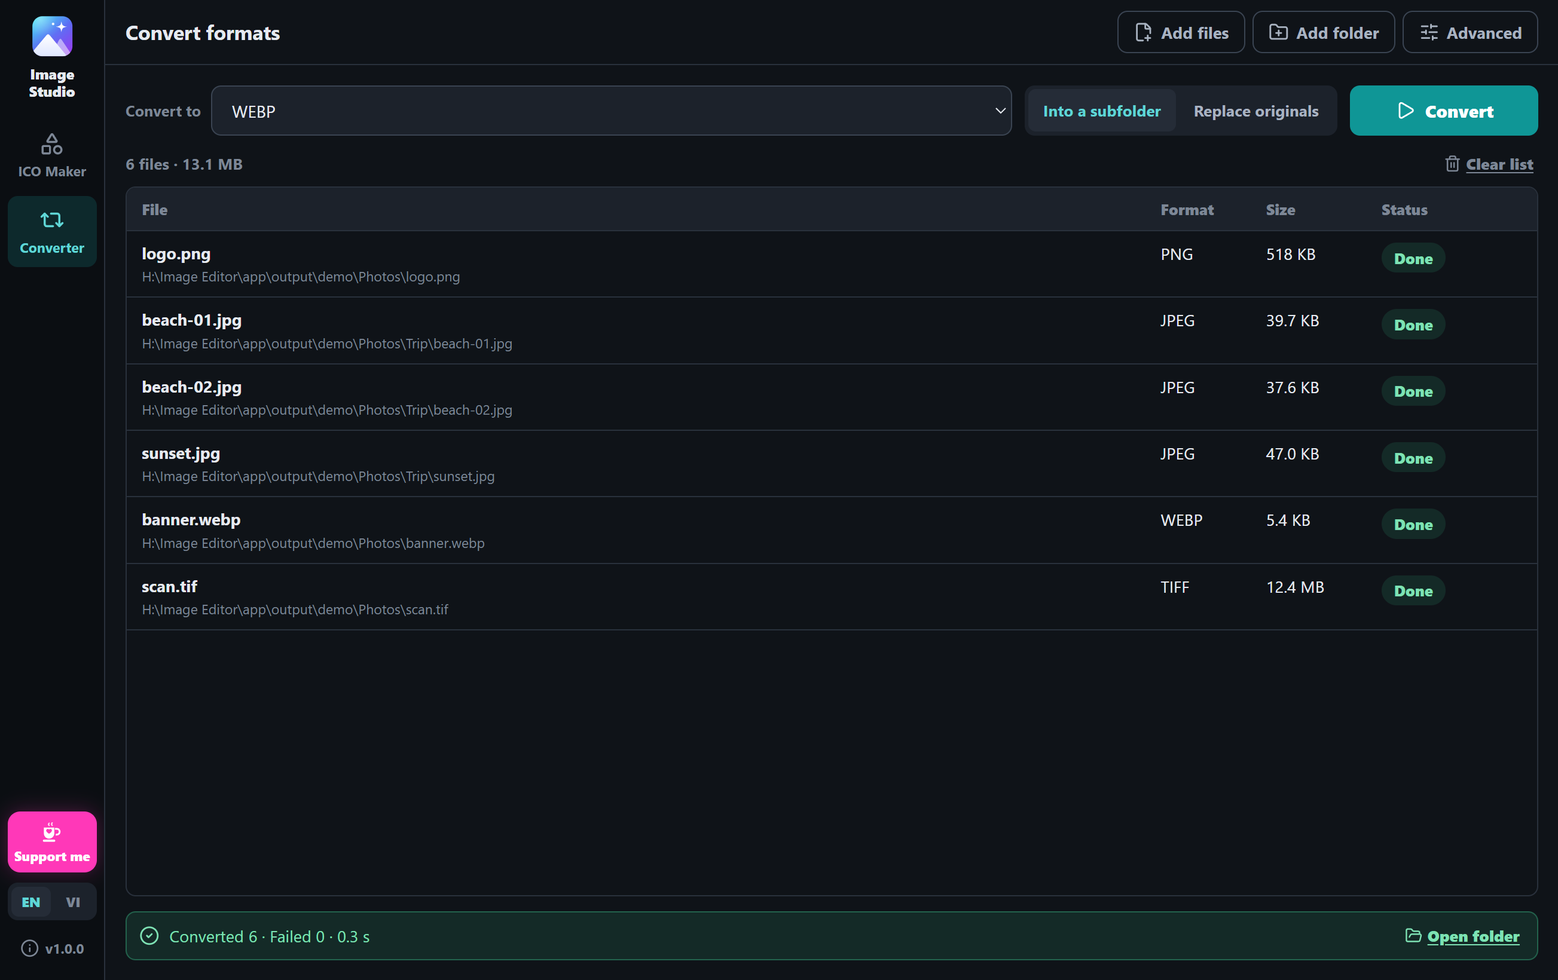
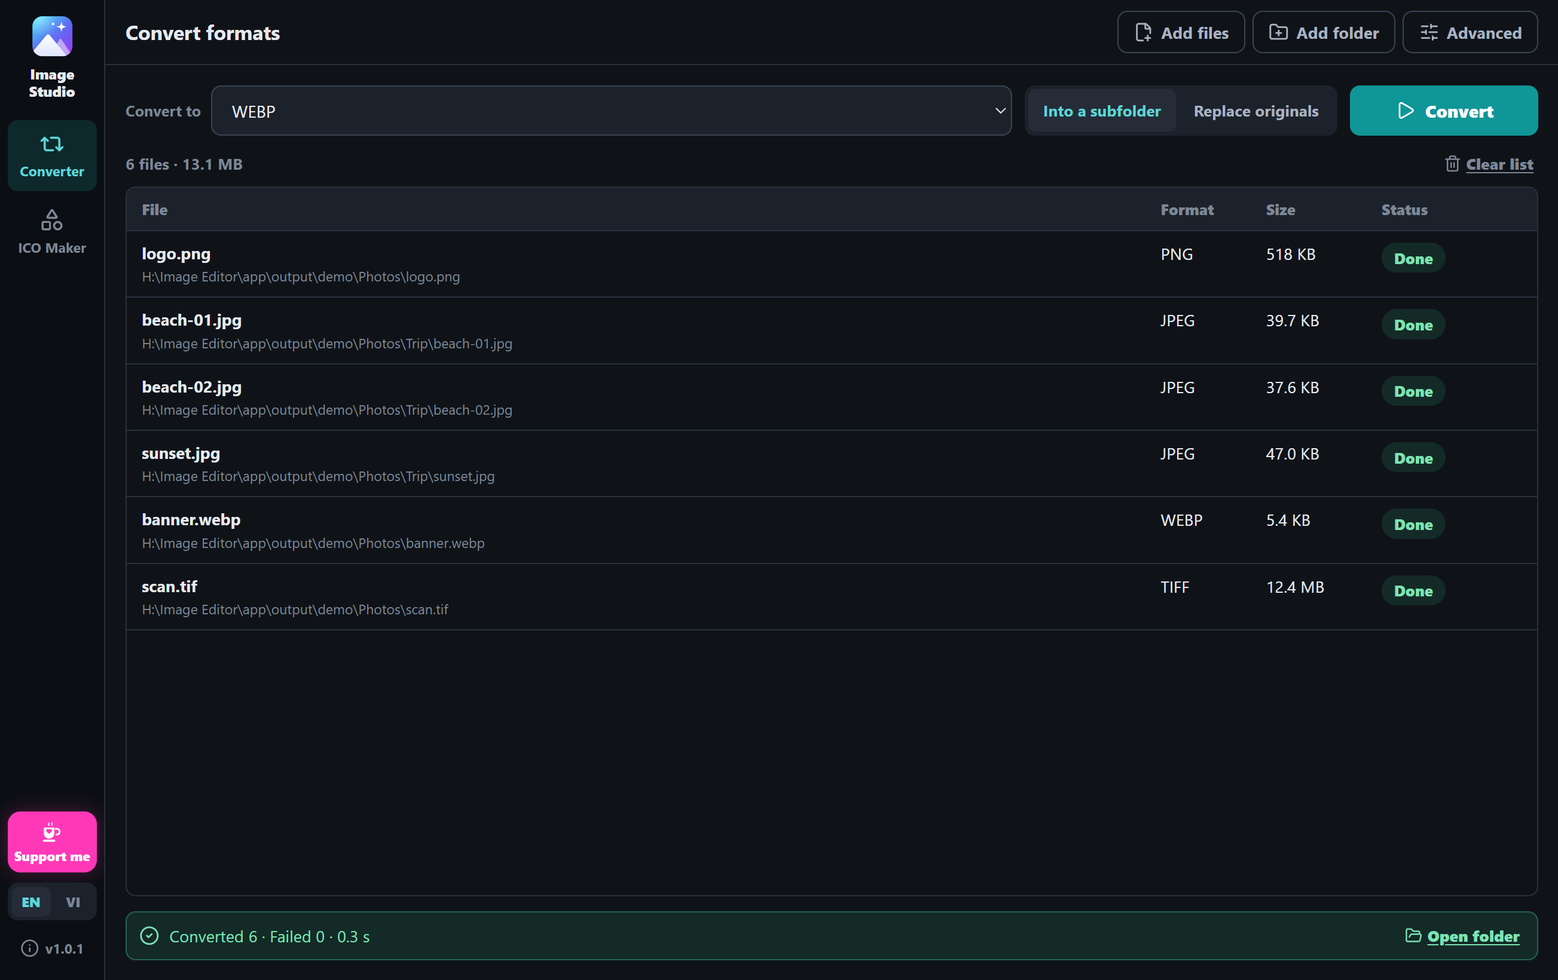
Make the Converter the main tool (1.0.1)
The Converter now comes first in the sidebar and the app opens on it.
README (EN/VI), About text, package description and the desktop
shortcut introduce conversion before the ICO maker, with a new HEIC to
JPG question. Releases take their notes from docs/release-notes and the
workflow fills in the build link and SHA-256 checksums.

Claude-Session: https://claude.ai/code/session_017oMzZX53Gv2aSY2cMQbrdU

Changed region(s): [[0.0, 0.1244, 0.0622, 0.2799]]

diff --git a/src/App.jsx b/src/App.jsx
@@ -8,18 +8,25 @@ import KofiIcon from './components/KofiIcon.jsx';
 import AboutPanel from './components/AboutPanel.jsx';
 import { LANGUAGES, useI18n } from './i18n.jsx';
 
+// Chuyển đổi là công cụ chính: đứng đầu thanh bên và mở mặc định.
 const TOOLS = [
-  { id: 'icon', label: 'tool.icon', icon: Shapes },
   { id: 'converter', label: 'tool.converter', icon: Repeat2 },
+  { id: 'icon', label: 'tool.icon', icon: Shapes },
 ];
+const DEFAULT_TOOL = TOOLS[0].id;
 const KOFI_URL = 'https://ko-fi.com/nyannyankuro';
+// Từ 1.0.1 app nhớ công cụ dưới khóa mới, nên ai đã dùng 1.0.0 cũng mở vào Chuyển đổi
+// một lần; khóa cũ được xóa.
+const TOOL_KEY = 'image-studio:active-tool';
+const OLD_TOOL_KEY = 'image-studio:tool';
 
 function readStoredTool() {
   try {
-    const value = window.localStorage.getItem('image-studio:tool');
-    return TOOLS.some((tool) => tool.id === value) ? value : 'icon';
+    window.localStorage.removeItem(OLD_TOOL_KEY);
+    const value = window.localStorage.getItem(TOOL_KEY);
+    return TOOLS.some((tool) => tool.id === value) ? value : DEFAULT_TOOL;
   } catch {
-    return 'icon';
+    return DEFAULT_TOOL;
   }
 }
 
@@ -40,7 +47,7 @@ export default function App() {
   function selectTool(id) {
     setActiveTool(id);
     try {
-      window.localStorage.setItem('image-studio:tool', id);
+      window.localStorage.setItem(TOOL_KEY, id);
     } catch {
       // Không lưu được lựa chọn thì vẫn chạy bình thường.
     }

diff --git a/README.md b/README.md
@@ -4,7 +4,7 @@
 
 # Image Studio
 
-**Turn any picture into a crisp, multi-size Windows icon, and convert whole folders of images and PDFs in one go.**<br />
+**Convert whole folders of images and PDFs to JPG, PNG, WEBP, AVIF and 100+ other formats in one go, and turn any picture into a crisp, multi-size Windows icon.**<br />
 A free, open-source desktop app for Windows. It works offline, and your files never leave your computer.
 
 **English** · [Tiếng Việt](docs/README.vi.md)
@@ -14,11 +14,19 @@ A free, open-source desktop app for Windows. It works offline, and your files ne
 [![License: GPL-3.0](https://img.shields.io/badge/license-GPL--3.0-a948e8)](LICENSE)
 [![Support me on Ko-fi](https://img.shields.io/badge/Ko--fi-Support%20me-ff5e5b?logo=kofi&logoColor=white)](https://ko-fi.com/nyannyankuro)
 
-<img src="docs/screenshots/ico-maker-en.png" alt="Image Studio ICO Maker" width="900" />
+<img src="docs/screenshots/converter-en.png" alt="Image Studio Converter" width="900" />
 
 </div>
 
 ## ✨ What it does
+
+**Converter**
+
+- 📂 **Whole folders at once.** Drop in files or folders (subfolders included) and convert everything to JPG, PNG, WEBP, AVIF, TIFF, GIF, ICO, PDF or 100+ other formats.
+- 📱 **iPhone photos too.** HEIC/HEIF, WEBP, AVIF, RAW camera files, PSD, SVG and more can be read and turned into everyday JPG or PNG.
+- 📄 **PDF to images.** Every page becomes its own image, at the resolution you pick (72 to 600 DPI).
+- 🛡 **Your originals stay safe.** Results go into a subfolder by default. If you choose to replace the originals, a file is only removed after its new version has been written.
+- ⚡ **Fast.** Several files are converted side by side, tuned to your CPU and memory, and you can stop at any moment.
 
 **ICO Maker**
 
@@ -27,17 +35,10 @@ A free, open-source desktop app for Windows. It works offline, and your files ne
 - ✂ **Frame it your way.** Drag to move, scroll to zoom, and round the corners anywhere from square to a full circle. Add padding, a background color or a border if you like.
 - 🧩 **Every ICO flavor.** BMP 32-bit with transparency, PNG, BMP 24-bit, 8-bit (256 colors) and 4-bit (16 colors), with presets for Windows apps and website favicons, plus any custom size up to 1024 px.
 
-**Converter**
-
-- 📂 **Whole folders at once.** Drop in files or folders (subfolders included) and convert everything to PNG, JPEG, WEBP, AVIF, TIFF, ICO, PDF or 100+ other formats.
-- 📄 **PDF to images.** Every page becomes its own image, at the resolution you pick (72 to 600 DPI).
-- 🛡 **Your originals stay safe.** Results go into a subfolder by default. If you choose to replace the originals, a file is only removed after its new version has been written.
-- ⚡ **Fast.** Several files are converted side by side, tuned to your CPU and memory, and you can stop at any moment.
-
 And: English and Vietnamese, a calm dark theme, a layout that fits small windows, no ads, no account and no tracking.
 
 <div align="center">
-<img src="docs/screenshots/converter-en.png" alt="Image Studio Converter" width="900" />
+<img src="docs/screenshots/ico-maker-en.png" alt="Image Studio ICO Maker" width="900" />
 </div>
 
 ## 📥 Download
@@ -63,6 +64,26 @@ Want to check for yourself?
 - Please download Image Studio only from this GitHub page. Copies on other sites may have been changed.
 
 ## 📖 How to use
+
+### Convert images
+
+1. Open **Converter** and drop files or folders onto the window, or click **Add files** / **Add folder**.
+2. Pick a format in **Convert to**.
+3. Choose where the results go:
+   - **Into a subfolder** (default): a `converted-images` folder next to the originals. The originals aren't touched.
+   - **Replace originals**: the results are saved next to the originals, and each original is deleted once its new version is written.
+4. Click **Convert**. You can click **Stop** at any time; files that were in progress are cleaned up, so nothing is left half-written. When it's done, **Open folder** shows the results.
+
+In **Advanced**:
+
+- **Quality**: *Lossless* keeps every pixel when the format allows it (PNG, TIFF, WEBP, AVIF, JXL), with larger files. *Max quality* uses the highest quality setting with normal compression, with smaller files. JPEG always uses its best quality.
+- **PDF**: the resolution for PDF pages: 72, 150, 300 or 600 DPI. 300 DPI suits most documents.
+- **Subfolder**: the name of the results folder.
+- **Folder filter**: when you add a folder, only take files of one format (for example only HEIC photos). Files you add one by one are always included.
+
+#### PDF files
+
+To read PDFs, ImageMagick needs **Ghostscript**, a free program that can't be bundled with this app for license reasons. If it's missing, Image Studio tells you and links to the [Ghostscript download page](https://ghostscript.com/releases/gsdnld.html). Install the 64-bit version, then try again. Each page becomes its own image; with *Replace originals*, the pages go into a folder named after the PDF.
 
 ### Make an icon in three steps
 
@@ -103,27 +124,10 @@ Click **Advanced** to open the side panel:
 - **Sizes**: presets (*Full set*, *Windows*, *Favicon*). Click a size to turn it on or off, or type your own.
 - **Also save a PNG of each size**: writes a folder of PNG files next to the .ico.
 
-### Convert images
-
-1. Open **Converter** and drop files or folders onto the window, or click **Add files** / **Add folder**.
-2. Pick a format in **Convert to**.
-3. Choose where the results go:
-   - **Into a subfolder** (default): a `converted-images` folder next to the originals. The originals aren't touched.
-   - **Replace originals**: the results are saved next to the originals, and each original is deleted once its new version is written.
-4. Click **Convert**. You can click **Stop** at any time; files that were in progress are cleaned up, so nothing is left half-written. When it's done, **Open folder** shows the results.
-
-In **Advanced**:
-
-- **Quality**: *Lossless* keeps every pixel when the format allows it (PNG, TIFF, WEBP, AVIF, JXL), with larger files. *Max quality* uses the highest quality setting with normal compression, with smaller files. JPEG always uses its best quality.
-- **PDF**: the resolution for PDF pages: 72, 150, 300 or 600 DPI. 300 DPI suits most documents.
-- **Subfolder**: the name of the results folder.
-- **Folder filter**: when you add a folder, only take files of one format (for example only HEIC photos). Files you add one by one are always included.
-
-#### PDF files
-
-To read PDFs, ImageMagick needs **Ghostscript**, a free program that can't be bundled with this app for license reasons. If it's missing, Image Studio tells you and links to the [Ghostscript download page](https://ghostscript.com/releases/gsdnld.html). Install the 64-bit version, then try again. Each page becomes its own image; with *Replace originals*, the pages go into a folder named after the PDF.
-
 ## Questions
+
+**Can it convert iPhone photos (HEIC) to JPG?**
+Yes. Drop the photos or their folder into **Converter**, pick **JPEG** in **Convert to** and click **Convert**.
 
 **Does it need the internet?**
 No. Everything happens on your computer. The only online feature is **Check for updates**, and it runs only when you click it.
@@ -173,7 +177,7 @@ npm run dist           # build the installer and portable zip into release/
 
 Project layout: `electron/` (main process: ImageMagick, conversion queue, clipboard, update check), `src/` (React interface; `src/lib/` holds the icon resampling, ICO encoder and color quantizer), `locales/` (English and Vietnamese text), `tests/`, `scripts/` (ImageMagick download, desktop shortcut).
 
-To release a new version, update `version` in `package.json` and `CHANGELOG.md`, then push a tag such as `v1.0.1`. GitHub Actions runs the tests, builds the installer and the portable zip, and attaches them to a GitHub Release.
+To release a new version, update `version` in `package.json` and `CHANGELOG.md`, write the release notes in `docs/release-notes/vX.Y.Z.md`, then push a tag such as `v1.0.2` or click **Run workflow** on the `release` workflow in the Actions tab. GitHub Actions runs the tests, builds the installer and the portable zip, and publishes them as a GitHub Release with those notes and the SHA-256 checksums.
 
 To add a language, copy `locales/en.json`, translate the values, and register it in `src/i18n.jsx` and `electron/i18n.cjs`.
 

diff --git a/docs/README.vi.md b/docs/README.vi.md
@@ -4,7 +4,7 @@
 
 # Image Studio
 
-**Biến bất kỳ bức ảnh nào thành icon Windows sắc nét đủ mọi kích thước, và chuyển đổi định dạng cả thư mục ảnh lẫn PDF trong một lần.**<br />
+**Chuyển đổi cả thư mục ảnh lẫn PDF sang JPG, PNG, WEBP, AVIF và hơn 100 định dạng khác trong một lần, và biến bất kỳ bức ảnh nào thành icon Windows sắc nét đủ mọi kích thước.**<br />
 Ứng dụng miễn phí, mã nguồn mở cho Windows. Chạy không cần mạng, ảnh của bạn không bao giờ rời khỏi máy.
 
 [English](../README.md) · **Tiếng Việt**
@@ -14,11 +14,19 @@
 [![Giấy phép: GPL-3.0](https://img.shields.io/badge/license-GPL--3.0-a948e8)](../LICENSE)
 [![Ủng hộ trên Ko-fi](https://img.shields.io/badge/Ko--fi-%E1%BB%A6ng%20h%E1%BB%99%20m%C3%ACnh-ff5e5b?logo=kofi&logoColor=white)](https://ko-fi.com/nyannyankuro)
 
-<img src="screenshots/ico-maker-vi.png" alt="Image Studio: Tạo ICO" width="900" />
+<img src="screenshots/converter-vi.png" alt="Image Studio: Chuyển đổi định dạng" width="900" />
 
 </div>
 
 ## ✨ Làm được gì
+
+**Chuyển đổi định dạng**
+
+- 📂 **Cả thư mục một lần.** Kéo-thả tệp hoặc thư mục (gồm cả thư mục con) rồi chuyển hết sang JPG, PNG, WEBP, AVIF, TIFF, GIF, ICO, PDF hoặc hơn 100 định dạng khác.
+- 📱 **Cả ảnh iPhone.** Đọc được HEIC/HEIF, WEBP, AVIF, ảnh RAW máy ảnh, PSD, SVG và nhiều loại khác, rồi đổi sang JPG hay PNG quen thuộc.
+- 📄 **PDF thành ảnh.** Mỗi trang thành một ảnh riêng, ở độ phân giải bạn chọn (72 đến 600 DPI).
+- 🛡 **Tệp gốc luôn an toàn.** Mặc định kết quả được lưu vào thư mục con. Nếu chọn thay tệp gốc, mỗi tệp chỉ bị xóa sau khi bản mới đã ghi xong.
+- ⚡ **Nhanh.** Nhiều tệp được chuyển cùng lúc, tự điều chỉnh theo CPU và RAM, và bạn có thể dừng bất cứ lúc nào.
 
 **Tạo ICO**
 
@@ -27,17 +35,10 @@
 - ✂ **Cắt khung theo ý bạn.** Kéo để dời ảnh, cuộn chuột để phóng to, bo góc từ vuông đến tròn hẳn. Thêm lề, màu nền hoặc viền nếu muốn.
 - 🧩 **Đủ kiểu ICO.** BMP 32-bit có nền trong suốt, PNG, BMP 24-bit, 8-bit (256 màu) và 4-bit (16 màu), có sẵn bộ size cho app Windows và favicon web, thêm size tùy ý đến 1024 px.
 
-**Chuyển đổi định dạng**
-
-- 📂 **Cả thư mục một lần.** Kéo-thả tệp hoặc thư mục (gồm cả thư mục con) rồi chuyển hết sang PNG, JPEG, WEBP, AVIF, TIFF, ICO, PDF hoặc hơn 100 định dạng khác.
-- 📄 **PDF thành ảnh.** Mỗi trang thành một ảnh riêng, ở độ phân giải bạn chọn (72 đến 600 DPI).
-- 🛡 **Tệp gốc luôn an toàn.** Mặc định kết quả được lưu vào thư mục con. Nếu chọn thay tệp gốc, mỗi tệp chỉ bị xóa sau khi bản mới đã ghi xong.
-- ⚡ **Nhanh.** Nhiều tệp được chuyển cùng lúc, tự điều chỉnh theo CPU và RAM, và bạn có thể dừng bất cứ lúc nào.
-
 Ngoài ra: giao diện tiếng Việt và tiếng Anh, nền tối dịu mắt, vừa cả khi cửa sổ nhỏ, không quảng cáo, không cần tài khoản, không theo dõi.
 
 <div align="center">
-<img src="screenshots/converter-vi.png" alt="Image Studio: Chuyển đổi định dạng" width="900" />
+<img src="screenshots/ico-maker-vi.png" alt="Image Studio: Tạo ICO" width="900" />
 </div>
 
 ## 📥 Tải về
@@ -63,6 +64,26 @@ Muốn tự kiểm tra?
 - Hãy chỉ tải Image Studio từ trang GitHub này. Bản ở trang khác có thể đã bị sửa.
 
 ## 📖 Hướng dẫn sử dụng
+
+### Chuyển đổi định dạng ảnh
+
+1. Mở mục **Chuyển đổi** rồi kéo-thả tệp hoặc thư mục vào cửa sổ, hoặc bấm **Thêm tệp** / **Thêm thư mục**.
+2. Chọn định dạng ở ô **Chuyển sang**.
+3. Chọn cách lưu kết quả:
+   - **Vào thư mục con** (mặc định): thư mục `converted-images` nằm cạnh tệp gốc. Tệp gốc giữ nguyên.
+   - **Thay tệp gốc**: kết quả lưu cạnh tệp gốc, và mỗi tệp gốc bị xóa khi bản mới của nó đã ghi xong.
+4. Bấm **Chuyển đổi**. Bấm **Dừng** lúc nào cũng được; tệp đang làm dở sẽ được dọn đi, không để lại tệp hỏng. Xong thì bấm **Mở thư mục** để xem kết quả.
+
+Trong **Nâng cao**:
+
+- **Chất lượng**: *Không mất* giữ nguyên từng pixel khi định dạng cho phép (PNG, TIFF, WEBP, AVIF, JXL), tệp lớn hơn. *Cao nhất* dùng mức chất lượng cao nhất với nén thường, tệp nhỏ hơn. JPEG luôn ở chất lượng tốt nhất.
+- **PDF**: độ phân giải cho trang PDF: 72, 150, 300 hoặc 600 DPI. 300 DPI hợp với hầu hết tài liệu.
+- **Thư mục con**: tên thư mục chứa kết quả.
+- **Lọc thư mục**: khi thêm thư mục, chỉ lấy tệp của một định dạng (ví dụ chỉ ảnh HEIC). Tệp thêm từng cái thì luôn được lấy.
+
+#### Tệp PDF
+
+Để đọc PDF, ImageMagick cần **Ghostscript**, một chương trình miễn phí nhưng không được kèm vào app vì lý do giấy phép. Nếu máy chưa có, Image Studio sẽ báo và đưa link tới [trang tải Ghostscript](https://ghostscript.com/releases/gsdnld.html). Cài bản 64-bit rồi thử lại. Mỗi trang thành một ảnh; ở chế độ *Thay tệp gốc*, các trang nằm trong thư mục mang tên tệp PDF.
 
 ### Tạo icon trong ba bước
 
@@ -103,27 +124,10 @@ Bấm **Nâng cao** để mở bảng bên phải:
 - **Kích thước**: bộ size có sẵn (*Đầy đủ*, *Windows*, *Favicon*). Bấm vào size để bật hoặc tắt, hoặc gõ size riêng.
 - **Kèm thư mục PNG từng size**: lưu thêm một thư mục ảnh PNG cạnh tệp .ico.
 
-### Chuyển đổi định dạng ảnh
-
-1. Mở mục **Chuyển đổi** rồi kéo-thả tệp hoặc thư mục vào cửa sổ, hoặc bấm **Thêm tệp** / **Thêm thư mục**.
-2. Chọn định dạng ở ô **Chuyển sang**.
-3. Chọn cách lưu kết quả:
-   - **Vào thư mục con** (mặc định): thư mục `converted-images` nằm cạnh tệp gốc. Tệp gốc giữ nguyên.
-   - **Thay tệp gốc**: kết quả lưu cạnh tệp gốc, và mỗi tệp gốc bị xóa khi bản mới của nó đã ghi xong.
-4. Bấm **Chuyển đổi**. Bấm **Dừng** lúc nào cũng được; tệp đang làm dở sẽ được dọn đi, không để lại tệp hỏng. Xong thì bấm **Mở thư mục** để xem kết quả.
-
-Trong **Nâng cao**:
-
-- **Chất lượng**: *Không mất* giữ nguyên từng pixel khi định dạng cho phép (PNG, TIFF, WEBP, AVIF, JXL), tệp lớn hơn. *Cao nhất* dùng mức chất lượng cao nhất với nén thường, tệp nhỏ hơn. JPEG luôn ở chất lượng tốt nhất.
-- **PDF**: độ phân giải cho trang PDF: 72, 150, 300 hoặc 600 DPI. 300 DPI hợp với hầu hết tài liệu.
-- **Thư mục con**: tên thư mục chứa kết quả.
-- **Lọc thư mục**: khi thêm thư mục, chỉ lấy tệp của một định dạng (ví dụ chỉ ảnh HEIC). Tệp thêm từng cái thì luôn được lấy.
-
-#### Tệp PDF
-
-Để đọc PDF, ImageMagick cần **Ghostscript**, một chương trình miễn phí nhưng không được kèm vào app vì lý do giấy phép. Nếu máy chưa có, Image Studio sẽ báo và đưa link tới [trang tải Ghostscript](https://ghostscript.com/releases/gsdnld.html). Cài bản 64-bit rồi thử lại. Mỗi trang thành một ảnh; ở chế độ *Thay tệp gốc*, các trang nằm trong thư mục mang tên tệp PDF.
-
 ## Câu hỏi thường gặp
+
+**Đổi ảnh iPhone (HEIC) sang JPG được không?**
+Được. Kéo ảnh hoặc cả thư mục ảnh vào mục **Chuyển đổi**, chọn **JPEG** ở ô **Chuyển sang** rồi bấm **Chuyển đổi**.
 
 **App có cần mạng không?**
 Không. Mọi thứ chạy trên máy bạn. Tính năng duy nhất dùng mạng là **Kiểm tra cập nhật**, và chỉ chạy khi bạn bấm.

diff --git a/docs/release-notes/v1.0.1.md b/docs/release-notes/v1.0.1.md
@@ -1,0 +1,29 @@
+### Image Studio: a free image converter and ICO maker for Windows
+- **Converter**: drop in files or whole folders and convert them to JPG, PNG, WEBP, AVIF, TIFF, GIF, ICO, PDF or 100+ other formats in one go. iPhone photos (HEIC), RAW camera files, PSD and SVG can be read too, and every PDF page can become its own image. Results go into a subfolder by default, so your originals stay safe.
+- **ICO Maker**: paste a picture with **Ctrl+V** (or drag it in), frame it, round the corners, and export a crisp, multi-size `.ico` for Windows apps or websites.
+
+English and Vietnamese, works offline, no ads, no account, no tracking. ImageMagick is built in; only PDF files need the free [Ghostscript](https://ghostscript.com/releases/gsdnld.html).
+
+### What's new in 1.0.1
+- The **Converter** is now the main tool: it comes first and the app opens on it.
+
+### Which file should I download?
+- **`ImageStudio-Setup-1.0.1.exe`**: the installer. The easy choice; no admin rights needed.
+- **`ImageStudio-Portable-1.0.1-win-x64.zip`**: the portable version. Unzip it anywhere and run `Image Studio.exe`.
+
+Already using Image Studio? **About → Check for updates** in the app finds new versions.
+
+### Is it safe?
+Windows may show a blue *"Windows protected your PC"* box the first time. That only means the app is new and isn't code-signed yet. It is **not** a virus warning: click **More info → Run anyway**.
+
+- **Built by GitHub from the public source code**, not on someone's PC: [build log]({{BUILD_URL}}).
+- **VirusTotal:** [scan results for the installer](https://www.virustotal.com/gui/file/{{SETUP_SHA256}}) (version 1.0.0 scored 0 of 65).
+
+SHA-256 checksums, so you can confirm your download is the original file (in PowerShell: `Get-FileHash <file>`):
+```
+{{SHA256}}
+```
+
+Please download Image Studio only from this page. Copies on other sites may have been changed.
+
+Full history: [CHANGELOG.md](https://github.com/nyankuro/image-studio/blob/main/CHANGELOG.md) · If it saves you some time, you can support the project on [Ko-fi](https://ko-fi.com/nyannyankuro) ☕

diff --git a/CLAUDE.md b/CLAUDE.md
@@ -24,7 +24,7 @@ Test PDF cần Ghostscript. Test giao diện dùng hồ sơ tạm (`IMAGE_STUDIO
 - `electron/update-check.cjs`: hỏi GitHub Releases bản mới nhất; danh sách link được phép mở ra ngoài.
 - `electron/i18n.cjs` và `src/i18n.jsx`: cùng dùng `locales/en.json`, `locales/vi.json`. Giao diện báo ngôn ngữ cho main qua `app:set-language`.
 - `src/tools/icon/`: giao diện Tạo ICO; `src/lib/`: thu nhỏ ảnh, mặt nạ bo góc, mã hóa ICO/PNG, lượng tử màu (có test riêng, chạy được bằng Node).
-- `src/tools/converter/`: giao diện Chuyển đổi.
+- `src/tools/converter/`: giao diện Chuyển đổi, công cụ chính (đứng đầu thanh bên, mở mặc định; `src/App.jsx`).
 
 ## Quy ước cần giữ
 
@@ -39,4 +39,4 @@ Test PDF cần Ghostscript. Test giao diện dùng hồ sơ tạm (`IMAGE_STUDIO
 
 ## Phát hành
 
-Sửa `version` trong `package.json`, ghi `CHANGELOG.md`, rồi push tag `vX.Y.Z` hoặc bấm **Run workflow** (workflow `release`, nhánh `main`) trong tab Actions; phiên Claude trên cloud không push được tag (proxy trả 403) nên dùng nút này. GitHub Actions (`.github/workflows/release.yml`) chạy test rồi dựng bộ cài và bản portable, đính vào GitHub Release. App chưa ký số nên Windows SmartScreen có thể cảnh báo (README có giải thích).
+Sửa `version` trong `package.json`, ghi `CHANGELOG.md` và ghi chú phát hành `docs/release-notes/vX.Y.Z.md` (workflow tự điền `{{BUILD_URL}}`, `{{SHA256}}`, `{{SETUP_SHA256}}`), rồi push tag `vX.Y.Z` hoặc bấm **Run workflow** (workflow `release`, nhánh `main`) trong tab Actions; phiên Claude trên cloud không push được tag (proxy trả 403) nên dùng nút này. GitHub Actions (`.github/workflows/release.yml`) chạy test rồi dựng bộ cài và bản portable, đính vào GitHub Release. App chưa ký số nên Windows SmartScreen có thể cảnh báo (README có giải thích).

diff --git a/CHANGELOG.md b/CHANGELOG.md
@@ -9,6 +9,18 @@ Every app change gets a version note. Each release records:
 - Verification performed.
 - Package or shortcut changes, if any.
 
+## 1.0.1 - 2026-11-06
+
+### Changed
+
+- The **Converter** is now the main tool: it comes first in the sidebar and the app opens on it. The app still remembers the last tool you used (from this version on, so everyone starts on the Converter once).
+- README (English and Vietnamese), About text, app description and desktop shortcut describe the converter first, with a new question on converting iPhone (HEIC) photos to JPG.
+- Releases get their notes from `docs/release-notes/vX.Y.Z.md`; the release workflow fills in the build link and SHA-256 checksums.
+
+### Verification
+
+- `npm test` on Windows, including a new check that the app opens on the Converter and lists it first.
+
 ## 1.0.0 - 2026-11-06
 
 First public release.
